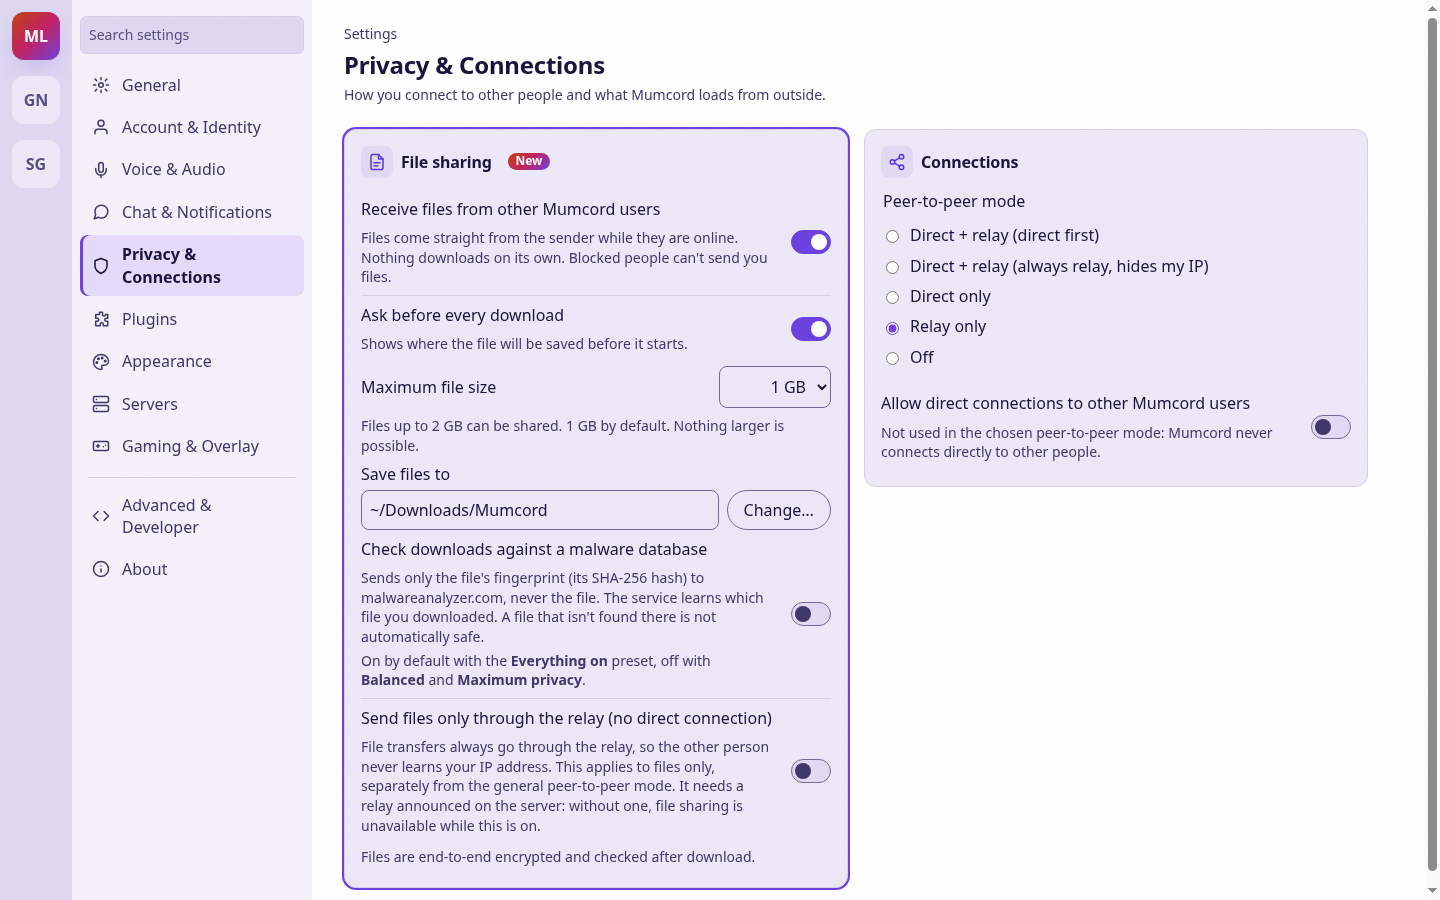
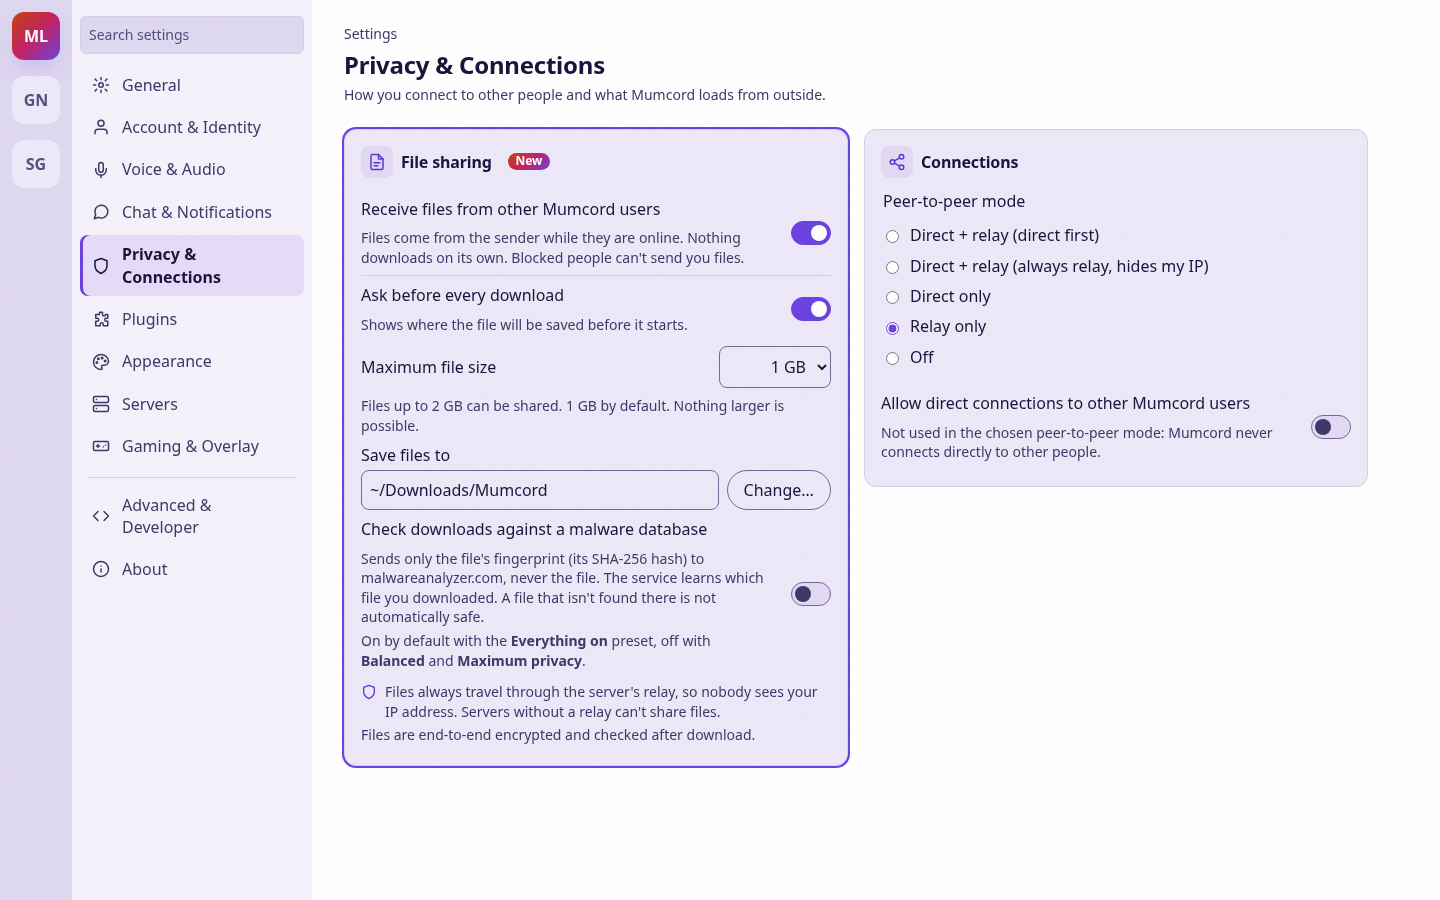
docs: make the relay a requirement in Epic 4.1 mockups

Changed region(s): [[0.2188, 0.2489, 0.5938, 0.9956], [0.9688, 0.0311, 1.0, 0.9644], [0.5312, 0.3111, 0.5938, 0.4356]]

diff --git a/docs/mockups/epic-4.1/13-no-relay.html b/docs/mockups/epic-4.1/13-no-relay.html
@@ -1,0 +1,68 @@
+<!doctype html>
+<html lang="en" data-theme="dark">
+<head>
+<meta charset="utf-8">
+<meta name="viewport" content="width=device-width, initial-scale=1">
+<title>No relay – file sharing unavailable – Epic 4.1 mockup</title>
+<!-- Same fonts the app bundles via @fontsource (not installed for static mockups). -->
+<link rel="stylesheet" href="https://fonts.googleapis.com/css2?family=Bricolage+Grotesque:opsz,wght@12..96,200..800&family=Instrument+Sans:wght@400..700&display=swap">
+<link rel="stylesheet" href="../../../ui/src/theme/global.css">
+<link rel="stylesheet" href="../../../ui/src/app/shell.css">
+<link rel="stylesheet" href="../../../ui/src/features/app/app.css">
+<link rel="stylesheet" href="../../../ui/src/features/servers/servers.css">
+<link rel="stylesheet" href="../../../ui/src/features/channels/channels.css">
+<link rel="stylesheet" href="../../../ui/src/features/members/members.css">
+<link rel="stylesheet" href="../../../ui/src/features/chat/chat.css">
+<link rel="stylesheet" href="../../../ui/src/features/chat/mediaCards.css">
+<link rel="stylesheet" href="../../../ui/src/features/plugins/prompt/progress.css">
+<link rel="stylesheet" href="../../../ui/src/features/settings/settings.css">
+<link rel="stylesheet" href="mock.css">
+<!-- ?theme=light switches to the light theme, like the app's data-theme on <html>. -->
+<script>document.documentElement.dataset.theme = new URLSearchParams(location.search).get("theme") || "dark";</script>
+</head>
+<body class="">
+<div class="shell" style="--channels-width: 16.5rem; --members-column-width: 0px">
+  <nav class="shell__servers" aria-label="Servers"><div class="server-bar"><ul class="server-bar__list"><li class="server-bar__item" data-active><button class="server-bar__server mock-server mock-server--active" type="button" aria-label="Mumcord Lounge">ML</button></li><li class="server-bar__item"><button class="server-bar__server mock-server" type="button" aria-label="Game Night">GN</button></li><li class="server-bar__item"><button class="server-bar__server mock-server" type="button" aria-label="Study Group">SG</button></li></ul></div></nav>
+  <div class="shell__channel-column" aria-label="Channels">
+    <div class="mock-section"><h2 class="server-section__title"><span class="server-section__dot"></span><span class="server-section__name">Mumcord Lounge</span></h2></div>
+    <ul class="mock-tree"><li class="mock-channel"><div class="tree-channel__row"><span class="tree-channel__glyph"><span class="mock-hash">#</span></span><span class="tree-channel__label"><span class="tree-channel__name">Lobby</span></span></div></li><li class="mock-channel"><div class="tree-channel__row" data-here><span class="tree-channel__glyph"><svg viewBox="0 0 24 24" width="16" height="16" aria-hidden="true" fill="none" stroke="currentColor" stroke-width="2" stroke-linecap="round" stroke-linejoin="round"><path d="M11 5 6 9H2v6h4l5 4zM15.5 8.5a5 5 0 0 1 0 7"/></svg></span><span class="tree-channel__label"><span class="tree-channel__name">General</span></span></div><ul class="mock-people"><li class="tree-person mock-person"><span class="tree-person__row"><span class="avatar" data-size="sm" data-initial="A" style="--avatar-bg: var(--color-avatar-4)" aria-hidden="true"></span><span class="tree-person__name">Alice</span></span></li><li class="tree-person mock-person"><span class="tree-person__row"><span class="avatar" data-size="sm" data-initial="B" style="--avatar-bg: var(--color-avatar-8)" aria-hidden="true"></span><span class="tree-person__name">Bob <span class="tree-person__you">(you)</span></span></span></li><li class="tree-person mock-person"><span class="tree-person__row"><span class="avatar" data-size="sm" data-initial="C" style="--avatar-bg: var(--color-avatar-2)" aria-hidden="true"></span><span class="tree-person__name">Carol</span></span></li></ul></li><li class="mock-channel"><div class="tree-channel__row"><span class="tree-channel__glyph"><span class="mock-hash">#</span></span><span class="tree-channel__label"><span class="tree-channel__name">Music</span></span></div><ul class="mock-people"><li class="tree-person mock-person"><span class="tree-person__row"><span class="avatar" data-size="sm" data-initial="D" style="--avatar-bg: var(--color-avatar-6)" aria-hidden="true"></span><span class="tree-person__name">Dave</span></span></li></ul></li><li class="mock-channel"><div class="tree-channel__row"><span class="tree-channel__glyph"><span class="mock-hash">#</span></span><span class="tree-channel__label"><span class="tree-channel__name">AFK</span></span></div></li></ul>
+    <section class="shell__user-panel mock-userpanel" aria-label="You"><span class="avatar" data-size="md" data-initial="B" style="--avatar-bg: var(--color-avatar-8)" aria-hidden="true"></span><span><strong>Bob</strong><br><span class="mock-muted">In General</span></span></section>
+  </div>
+  <main class="shell__chat" aria-label="Chat">
+  <header class="chat-header"><h2 class="chat-header__title"><span class="chat-header__hash" aria-hidden="true">#</span>General</h2></header>
+  <div class="shell__chat-body">
+    <div class="chat-list-frame"><div class="chat-list"><ul class="chat-list__items"><li class="chat-message chat-message--start"><div class="chat-message__row">
+  <div class="chat-message__gutter"><span class="avatar" data-size="md" data-initial="C" style="--avatar-bg: var(--color-avatar-2)" aria-hidden="true"></span></div>
+  <div class="chat-message__content"><div class="chat-message__header"><span class="chat-message__sender">Carol</span><time class="chat-message__time">20:02</time></div>
+  <div class="chat-message__body"><p>Does anyone still have the slides from Thursday?</p></div></div></div></li><li class="chat-message chat-message--start"><div class="chat-message__row">
+  <div class="chat-message__gutter"><span class="avatar" data-size="md" data-initial="A" style="--avatar-bg: var(--color-avatar-4)" aria-hidden="true"></span></div>
+  <div class="chat-message__content"><div class="chat-message__header"><span class="chat-message__sender">Alice</span><time class="chat-message__time">20:03</time></div>
+  <div class="chat-message__body"><p>Yes, sharing them right now 👇</p></div></div></div></li><li class="chat-message"><div class="chat-message__row"><div class="chat-message__gutter"></div>
+  <div class="chat-message__content"><div class="chat-message__body"><div class="audio-card file-card" role="group" aria-label="File game-night-slides.pdf">
+  <div class="audio-card__head">
+    <span class="audio-card__icon"><svg viewBox="0 0 24 24" width="22" height="22" aria-hidden="true" fill="none" stroke="currentColor" stroke-width="2" stroke-linecap="round" stroke-linejoin="round"><path d="M14 2H6a2 2 0 0 0-2 2v16a2 2 0 0 0 2 2h12a2 2 0 0 0 2-2V8z"/><path d="M14 2v6h6M8 13h8M8 17h5"/></svg></span>
+    <div class="audio-card__text"><p class="audio-card__name">game-night-slides.pdf</p><p class="audio-card__facts">18.4 MB · PDF document</p></div>
+  </div>
+  
+  <p class="file-card__status"><span class="file-card__dot" data-online></span>Available while Alice is online · ends tomorrow at 20:04</p>
+  <p id="norelay" class="file-card__status file-card__scan"><svg viewBox="0 0 24 24" width="14" height="14" aria-hidden="true" fill="none" stroke="currentColor" stroke-width="2" stroke-linecap="round" stroke-linejoin="round"><circle cx="12" cy="12" r="10"/><path d="M4.9 4.9l14.2 14.2"/></svg><span>This server has no relay, so file sharing isn't available.</span></p>
+  <div class="file-card__actions"><button type="button" class="button button--primary file-card__button" disabled aria-disabled="true" aria-describedby="norelay"><svg viewBox="0 0 24 24" width="16" height="16" aria-hidden="true" fill="none" stroke="currentColor" stroke-width="2" stroke-linecap="round" stroke-linejoin="round"><path d="M12 3v12M7 10l5 5 5-5M5 21h14"/></svg><span>Download</span></button></div>
+</div></div></div></div></li></ul></div></div>
+    <form class="chat-composer" aria-label="Message composer">
+  
+  <p class="settings-hint" style="margin:0 0 var(--space-2)">This server has no relay, so file sharing isn't available.</p>
+  <div class="chat-composer__row">
+    <div class="chat-apps"><button type="button" class="chat-composer__icon chat-apps__button" aria-label="Apps"><svg viewBox="0 0 24 24" width="18" height="18" aria-hidden="true" fill="none" stroke="currentColor" stroke-width="2" stroke-linecap="round" stroke-linejoin="round"><path d="M12 5v14M5 12h14"/></svg></button></div>
+    <button type="button" class="chat-composer__icon mock-new" aria-label="Attach a file" data-tooltip="This server has no relay, so file sharing isn't available" disabled aria-disabled="true" style="opacity:.4;cursor:not-allowed"><svg viewBox="0 0 24 24" width="18" height="18" aria-hidden="true" fill="none" stroke="currentColor" stroke-width="2" stroke-linecap="round" stroke-linejoin="round"><path d="m21.4 11.1-9.2 9.2a6 6 0 0 1-8.5-8.5l9.2-9.2a4 4 0 0 1 5.7 5.7l-9.2 9.2a2 2 0 0 1-2.8-2.8l8.5-8.5"/></svg></button>
+    <button type="button" class="chat-composer__icon" aria-label="Add image"><svg viewBox="0 0 24 24" width="18" height="18" aria-hidden="true" fill="none" stroke="currentColor" stroke-width="2" stroke-linecap="round" stroke-linejoin="round"><path d="M4 5h16v14H4zM4 16l5-5 4 4 3-3 4 4M15 9h.01"/></svg></button>
+    <button type="button" class="chat-composer__icon" aria-label="GIF"><svg viewBox="0 0 24 24" width="18" height="18" aria-hidden="true" fill="none" stroke="currentColor" stroke-width="2" stroke-linecap="round" stroke-linejoin="round"><rect x="3" y="6" width="18" height="12" rx="2"/><path d="M8 10.5h-1.5v3H8v-1.2M11.5 10v4M15 14v-4h2.2M15 12h1.6"/></svg></button>
+    <textarea class="chat-composer__input" rows="1" aria-label="Message #General" placeholder="Message #General"></textarea>
+    <button type="submit" class="chat-composer__icon" aria-label="Send"><svg viewBox="0 0 24 24" width="18" height="18" aria-hidden="true" fill="none" stroke="currentColor" stroke-width="2" stroke-linecap="round" stroke-linejoin="round"><path d="M4 12l16-8-6 16-2-7z"/></svg></button>
+  </div>
+</form>
+  </div>
+  
+</main>
+</div>
+</body>
+</html>

diff --git a/docs/mockups/epic-4.1/08-settings-file-sharing.html b/docs/mockups/epic-4.1/08-settings-file-sharing.html
@@ -35,7 +35,7 @@
       <p class="settings-page__description">How you connect to other people and what Mumcord loads from outside.</p>
     </div></header>
     <div class="settings-page__cards"><section class="settings-group mock-new-group"><div class="settings-group__head"><span class="settings-group__icon"><svg class="settings-icon" viewBox="0 0 24 24" width="18" height="18" fill="none" stroke="currentColor" stroke-width="2" stroke-linecap="round" stroke-linejoin="round" aria-hidden="true"><path d="M14 2H6a2 2 0 0 0-2 2v16a2 2 0 0 0 2 2h12a2 2 0 0 0 2-2V8z"/><path d="M14 2v6h6M8 13h8M8 17h5"/></svg></span><h3 class="settings-group__title">File sharing <span class="mock-new-badge">New</span></h3></div>
-<div class="settings-switch"><div class="settings-switch__text"><label>Receive files from other Mumcord users</label><p class="settings-switch__status settings-hint">Files come straight from the sender while they are online. Nothing downloads on its own. Blocked people can't send you files.</p></div><input type="checkbox" role="switch" class="settings-switch__input" checked aria-label="Receive files from other Mumcord users"></div>
+<div class="settings-switch"><div class="settings-switch__text"><label>Receive files from other Mumcord users</label><p class="settings-switch__status settings-hint">Files come from the sender while they are online. Nothing downloads on its own. Blocked people can't send you files.</p></div><input type="checkbox" role="switch" class="settings-switch__input" checked aria-label="Receive files from other Mumcord users"></div>
 <div class="settings-switch"><div class="settings-switch__text"><label>Ask before every download</label><p class="settings-switch__status settings-hint">Shows where the file will be saved before it starts.</p></div><input type="checkbox" role="switch" class="settings-switch__input" checked aria-label="Ask before every download"></div>
 <div class="settings-control-row"><label class="settings-control-row__label" for="max">Maximum file size</label>
   <select id="max" class="settings-input settings-input--compact" aria-describedby="max-hint"><option>100 MB</option><option>500 MB</option><option selected>1 GB</option><option>2 GB</option></select></div>
@@ -43,7 +43,7 @@
 <label class="settings-field" for="folder">Save files to</label>
 <div class="mock-folder"><input id="folder" class="settings-input" value="~/Downloads/Mumcord" readonly><button type="button" class="settings-button">Change…</button></div>
 <div class="settings-switch"><div class="settings-switch__text"><label>Check downloads against a malware database</label><p class="settings-switch__status settings-hint">Sends only the file's fingerprint (its SHA-256 hash) to malwareanalyzer.com, never the file. The service learns which file you downloaded. A file that isn't found there is not automatically safe.<span class="mock-switch-default">On by default with the <strong>Everything on</strong> preset, off with <strong>Balanced</strong> and <strong>Maximum privacy</strong>.</span></p></div><input type="checkbox" role="switch" class="settings-switch__input" aria-label="Check downloads against a malware database"></div>
-<div class="settings-switch"><div class="settings-switch__text"><label>Send files only through the relay (no direct connection)</label><p class="settings-switch__status settings-hint">File transfers always go through the relay, so the other person never learns your IP address. This applies to files only, separately from the general peer-to-peer mode. It needs a relay announced on the server: without one, file sharing is unavailable while this is on.</p></div><input type="checkbox" role="switch" class="settings-switch__input" aria-label="Send files only through the relay (no direct connection)"></div>
+<p class="settings-hint mock-relay-note"><svg viewBox="0 0 24 24" width="16" height="16" aria-hidden="true" fill="none" stroke="currentColor" stroke-width="2" stroke-linecap="round" stroke-linejoin="round"><path d="M12 22s8-4 8-10V5l-8-3-8 3v7c0 6 8 10 8 10z"/></svg><span>Files always travel through the server's relay, so nobody sees your IP address. Servers without a relay can't share files.</span></p>
 <p class="settings-hint">Files are end-to-end encrypted and checked after download.</p>
 </section><section class="settings-group"><div class="settings-group__head"><span class="settings-group__icon"><svg class="settings-icon" viewBox="0 0 24 24" width="18" height="18" fill="none" stroke="currentColor" stroke-width="2" stroke-linecap="round" stroke-linejoin="round" aria-hidden="true"><circle cx="18" cy="5" r="3"/><circle cx="6" cy="12" r="3"/><circle cx="18" cy="19" r="3"/><path d="m8.6 13.5 6.8 4M15.4 6.5l-6.8 4"/></svg></span><h3 class="settings-group__title">Connections</h3></div><fieldset class="settings-radios"><legend class="settings-radios__legend"><span>Peer-to-peer mode</span></legend><div class="settings-radios__row"><label class="settings-radios__option"><input type="radio" name="p2p"> Direct + relay (direct first)</label></div><div class="settings-radios__row"><label class="settings-radios__option"><input type="radio" name="p2p"> Direct + relay (always relay, hides my IP)</label></div><div class="settings-radios__row"><label class="settings-radios__option"><input type="radio" name="p2p"> Direct only</label></div><div class="settings-radios__row"><label class="settings-radios__option"><input type="radio" name="p2p" checked> Relay only</label></div><div class="settings-radios__row"><label class="settings-radios__option"><input type="radio" name="p2p"> Off</label></div></fieldset><div class="settings-switch"><div class="settings-switch__text"><label>Allow direct connections to other Mumcord users</label><p class="settings-switch__status settings-hint">Not used in the chosen peer-to-peer mode: Mumcord never connects directly to other people.</p></div><input type="checkbox" role="switch" class="settings-switch__input" aria-label="Allow direct connections to other Mumcord users"></div></section></div>
   </div>
